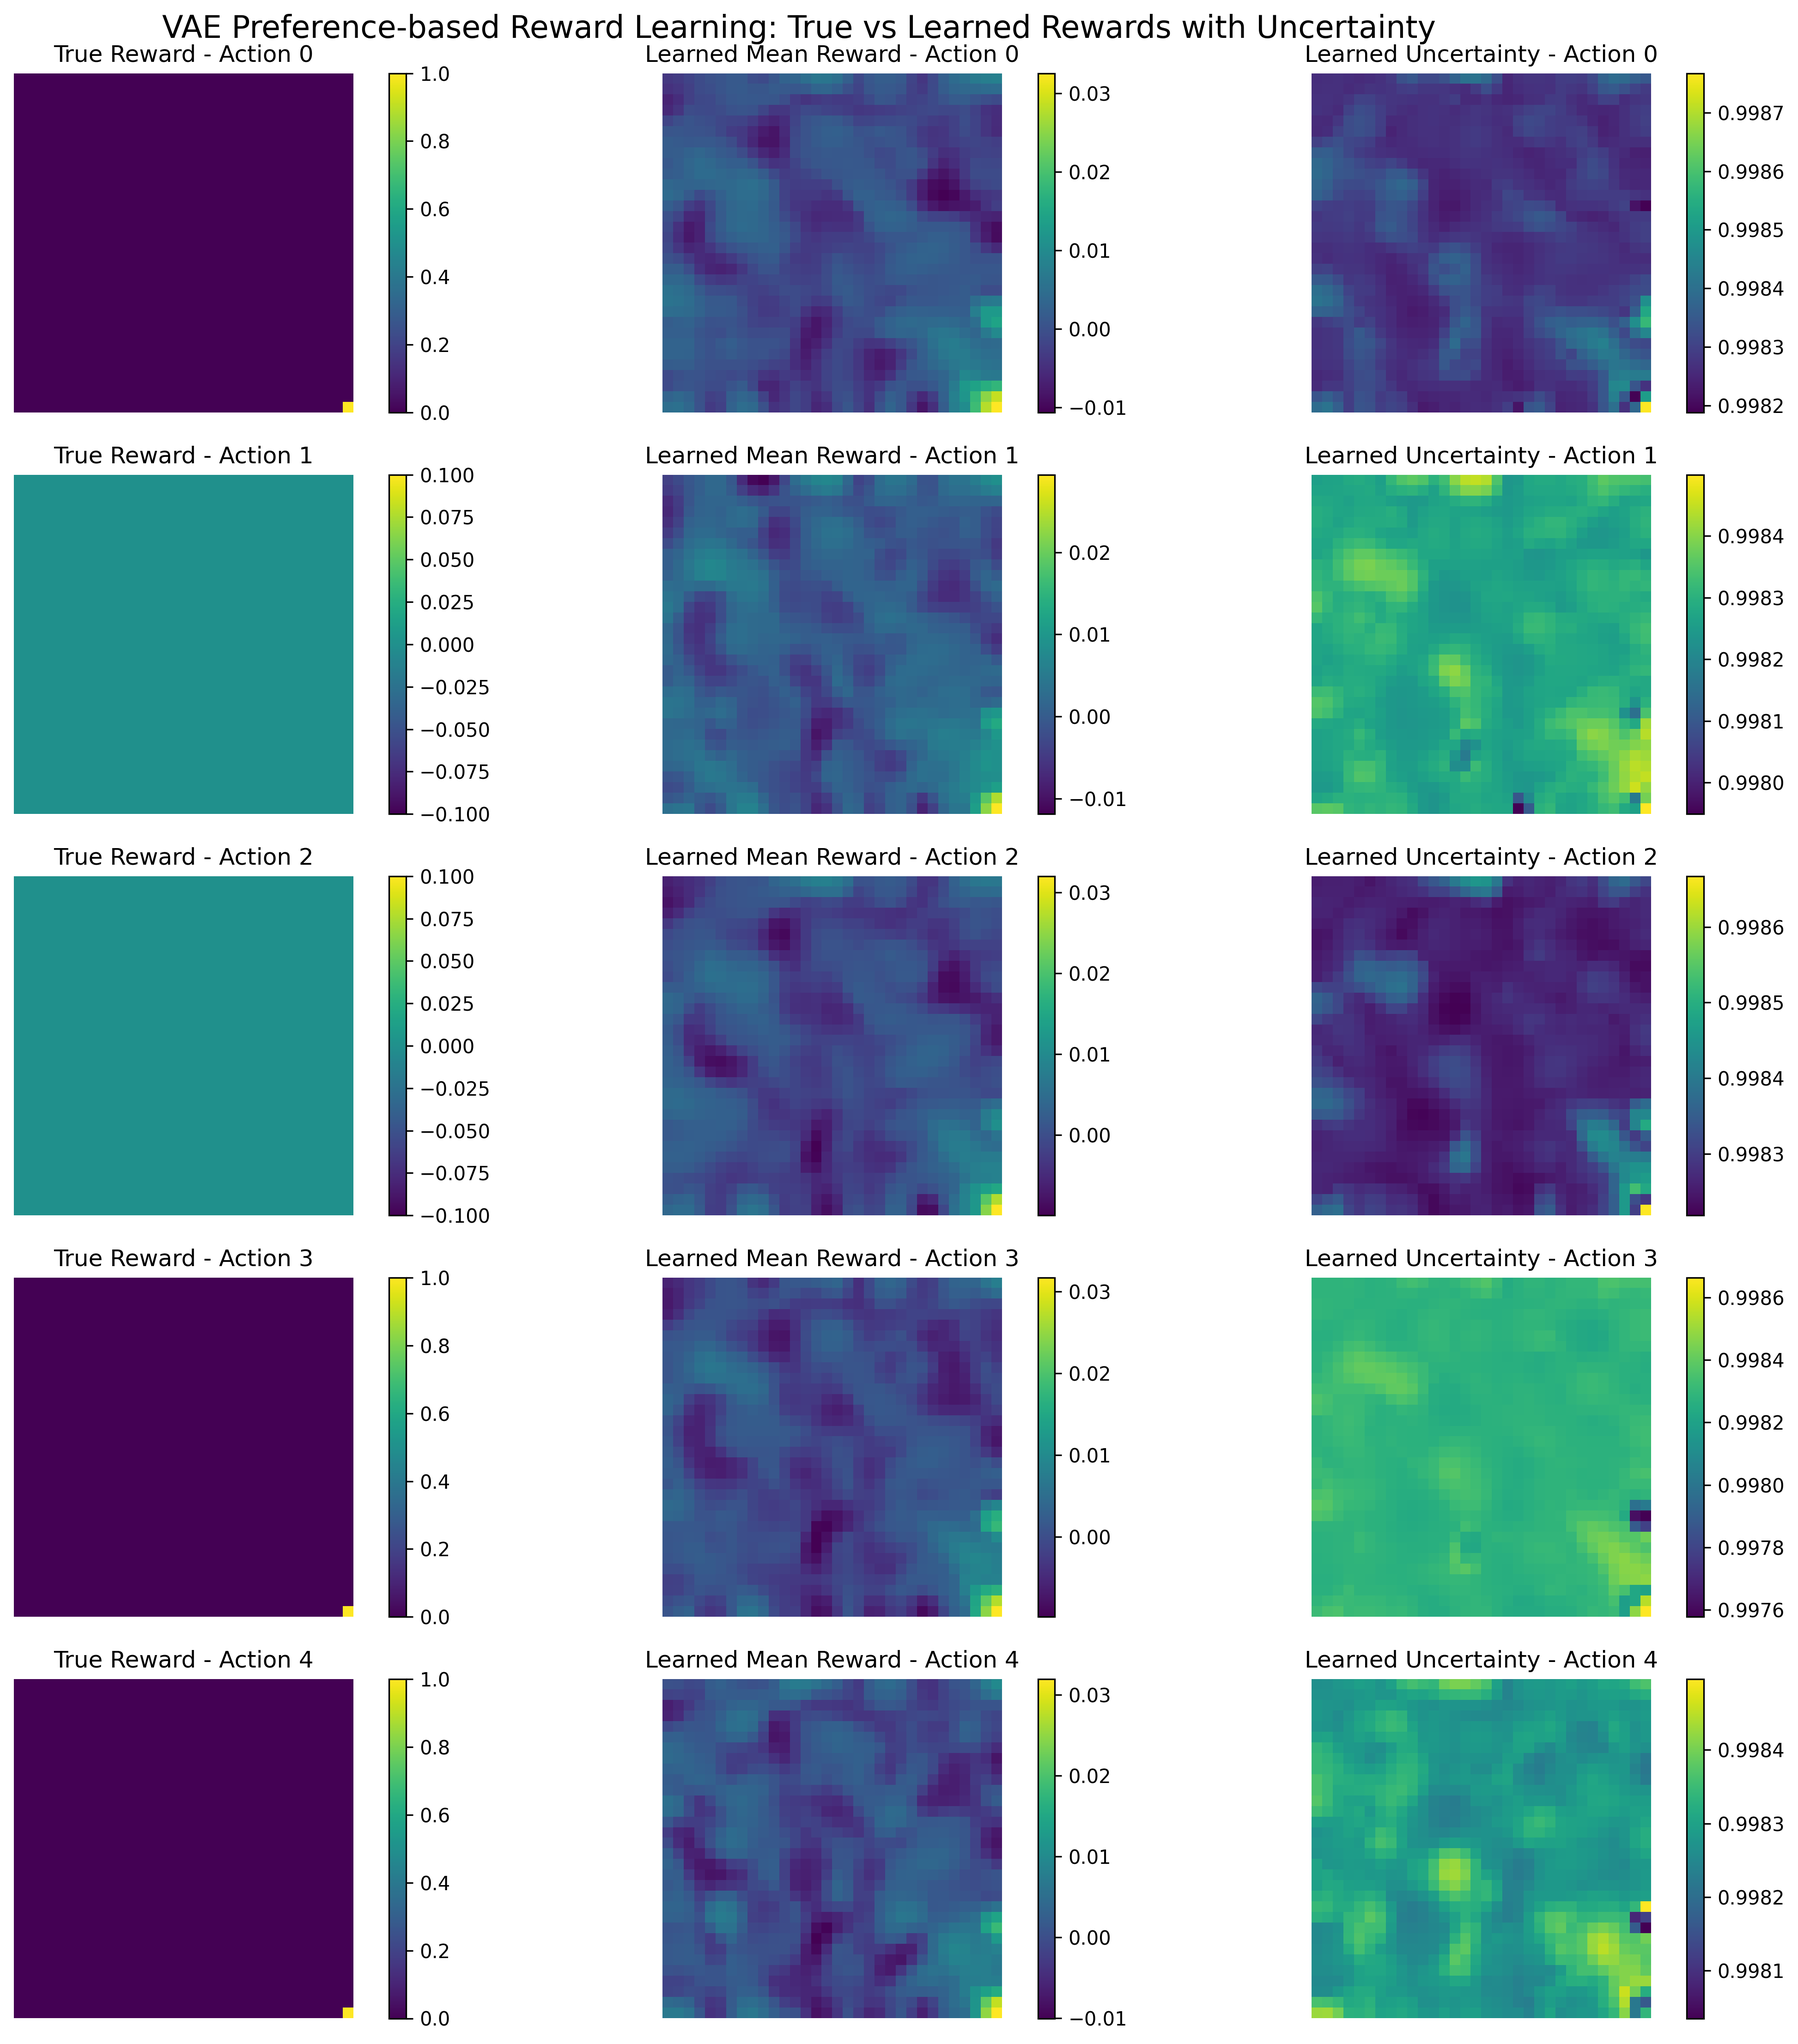
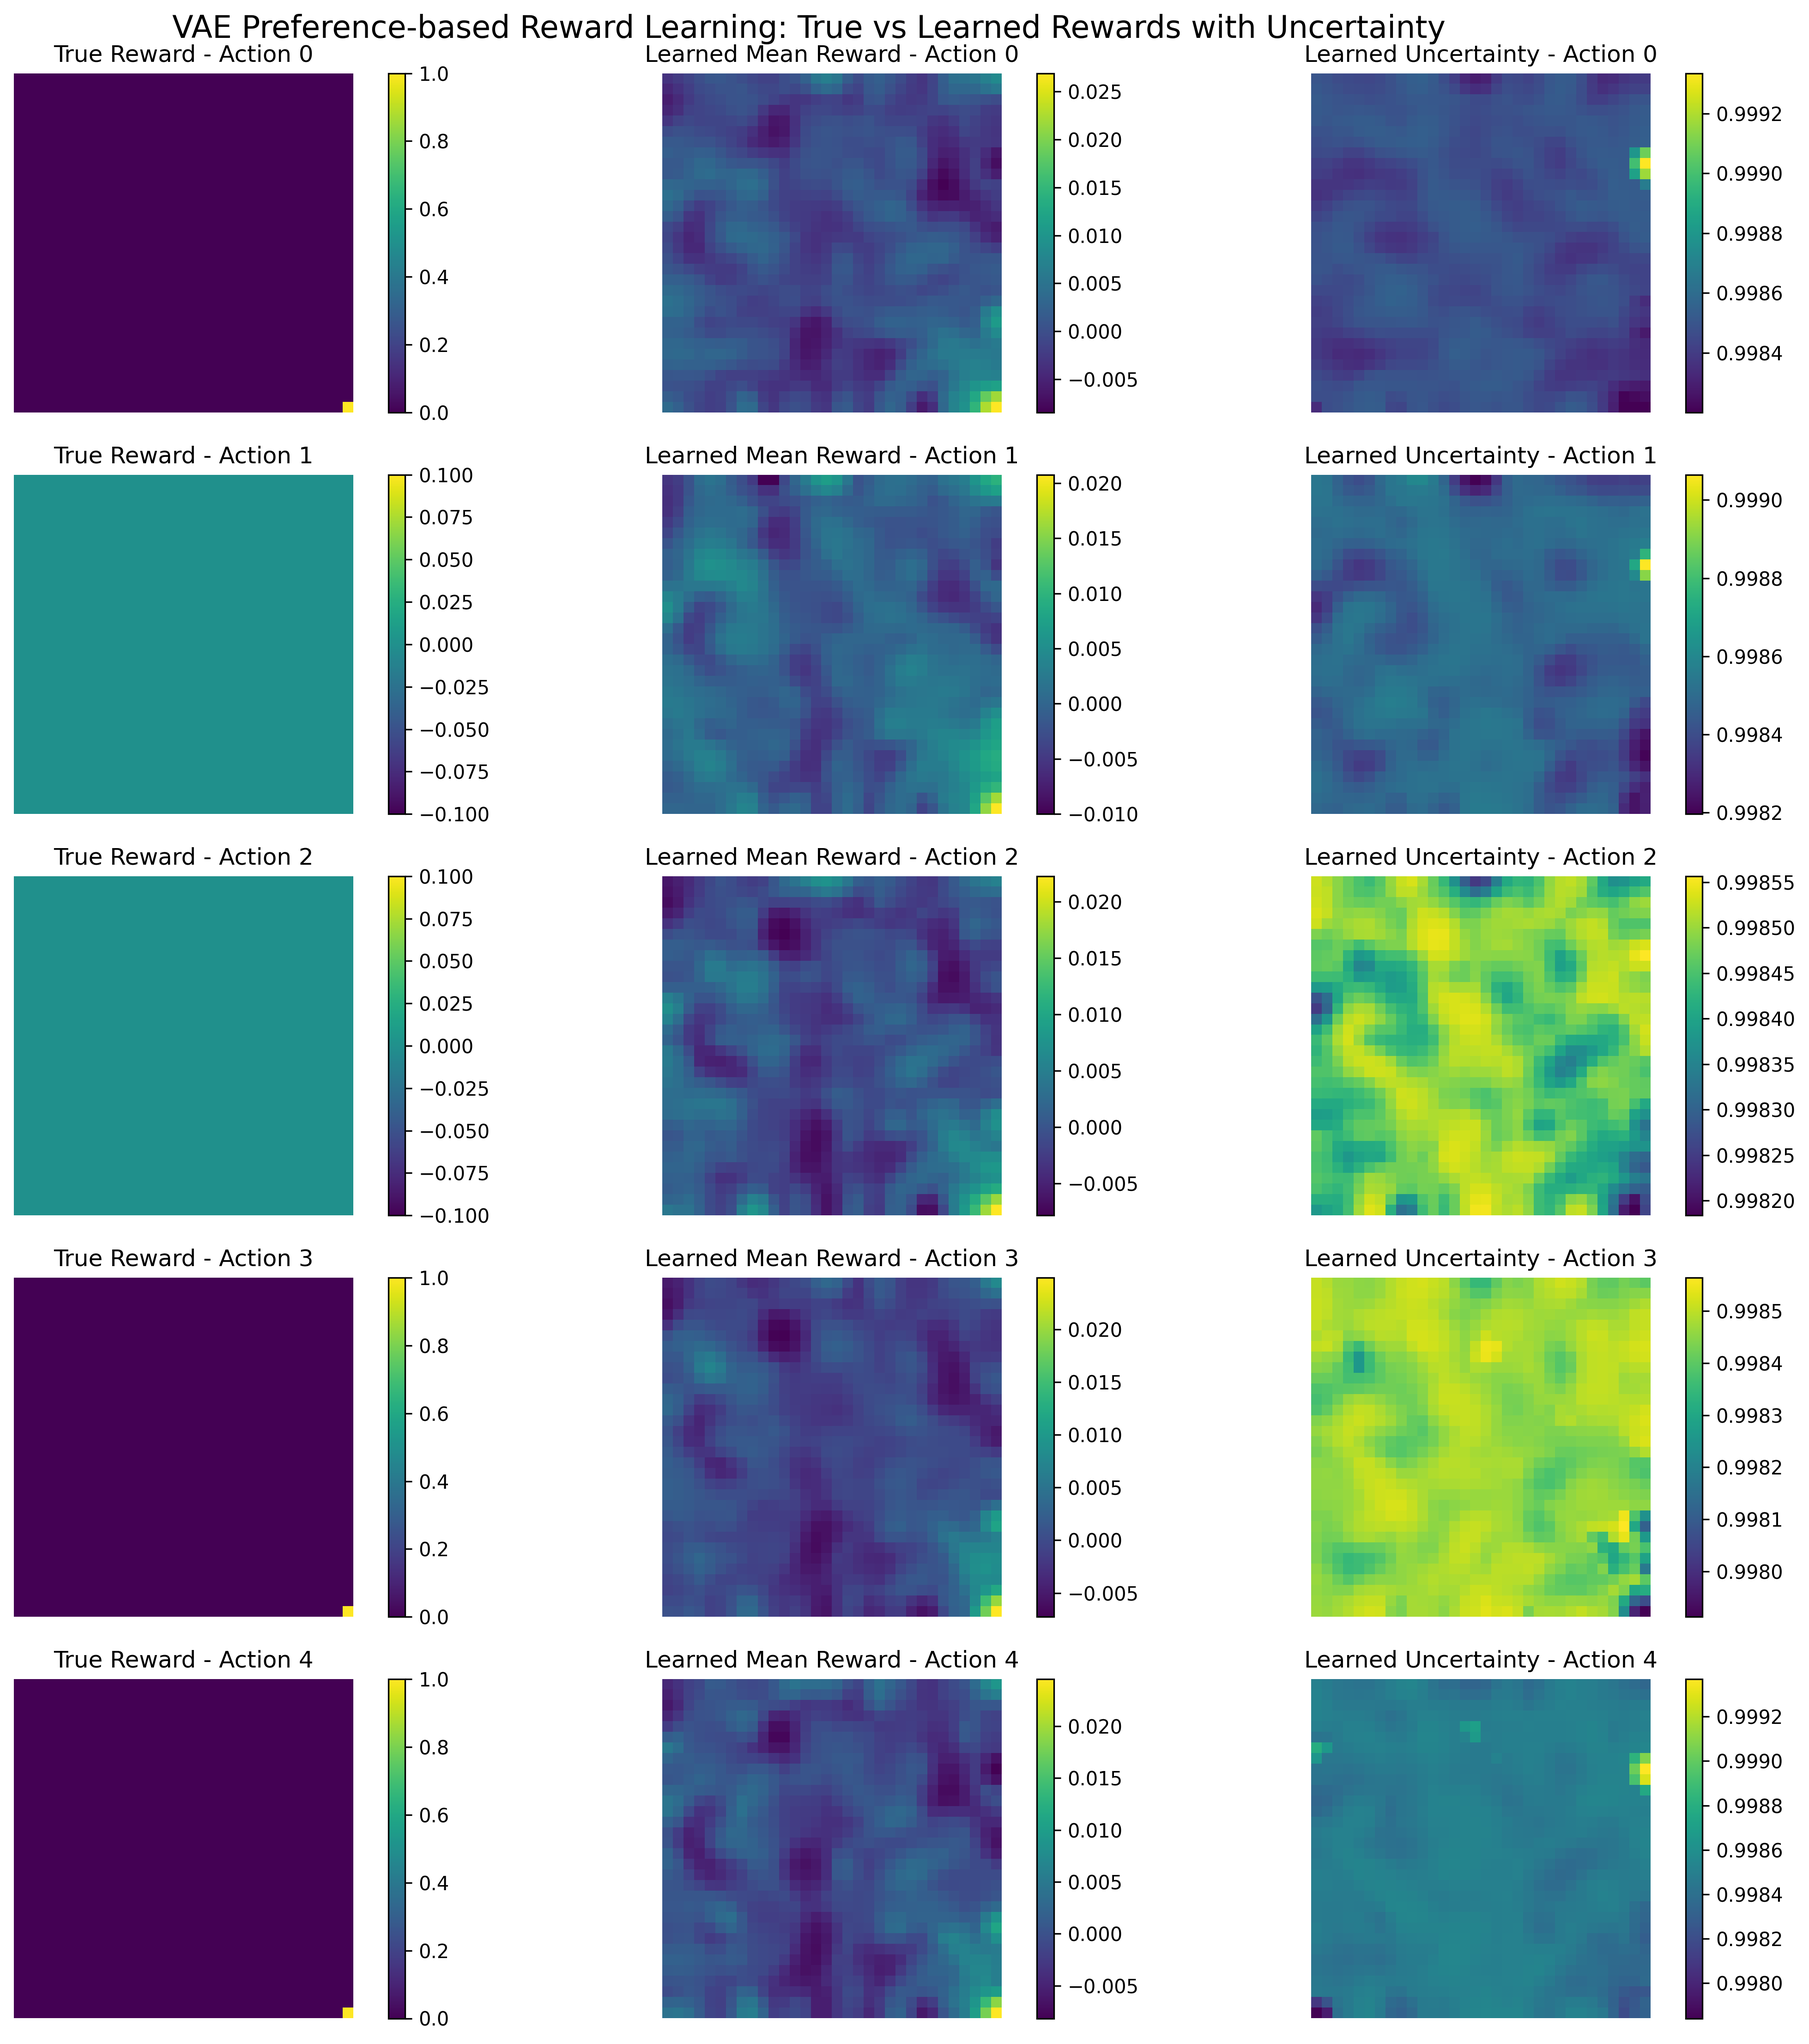
lowered the number of epochs and adapted description

diff --git a/main_mlp_iid.py b/main_mlp_iid.py
@@ -40,7 +40,7 @@ if __name__ == "__main__":
     optimizer = torch.optim.Adam(model.parameters(), lr=0.001)
     
     # Training loop
-    num_epochs = 300
+    num_epochs = 200
     device = torch.device("cuda" if torch.cuda.is_available() else "cpu")
     model.to(device)
     

diff --git a/main_mlp_preference.py b/main_mlp_preference.py
@@ -59,7 +59,7 @@ def main():
     optimizer = torch.optim.Adam(model.parameters(), lr=0.001)
     
     # Training loop
-    num_epochs = 300
+    num_epochs = 200
     device = torch.device("cuda" if torch.cuda.is_available() else "cpu")
     model.to(device)
     

diff --git a/main_vae_preference.py b/main_vae_preference.py
@@ -65,7 +65,7 @@ def main():
     optimizer = torch.optim.Adam(model.parameters(), lr=0.001)
     
     # Training loop
-    num_epochs = 300
+    num_epochs = 200
     device = torch.device("cuda" if torch.cuda.is_available() else "cpu")
     model.to(device)
     

diff --git a/README.md b/README.md
@@ -39,7 +39,7 @@ All experiments use consistent hyperparameters for fair comparison:
 
 - **Hidden Dimensions**: [64, 32]
 - **Batch Size**: 128
-- **Number of Epochs**: 300
+- **Number of Epochs**: 200
 - **Learning Rate**: 0.001
 - **Optimizer**: Adam
 - **Dataset Size**: 3000 samples (for preference-based approaches)
@@ -82,7 +82,7 @@ All experiments use consistent hyperparameters for fair comparison:
 
 ![Preference Reward Learning](figures/preference_reward_learning.png)
 
-**Results**: The preference-based approach successfully learns the reward structure from trajectory comparisons. While the reconstruction is less precise than IID learning, it correctly identifies the goal region and learns a reasonable approximation of the sparse reward function. At the same time, we can observe that rewards vary more erratically compared to the IID and VAE approaches, hinting at overfitting.
+**Results**: The preference-based approach identifies the goal region and learns a reasonable approximation of the reward function. However, in the low-reward regions, we can see that it overfitst to "spurious" patterns in the preference data, leading to "cloud-like" patterns in the learned rewards.
 
 **Strengths**:
 - Works with human-like preference data
@@ -93,6 +93,7 @@ All experiments use consistent hyperparameters for fair comparison:
 - Lower accuracy compared to IID learning
 - Requires trajectory-level comparisons
 - No uncertainty quantification
+- Overfitting to "spurious" patterns in the preference data
 
 ### 3. VAE Preference-based Reward Learning (`main_vae_preference.py`)
 
@@ -118,6 +119,7 @@ All experiments use consistent hyperparameters for fair comparison:
 - Provides uncertainty estimates
 - Probabilistic framework
 - Can identify regions of high uncertainty
+- More regular rewards compared to MLE approach
 
 **Limitations**:
 - Lower preference prediction accuracy
